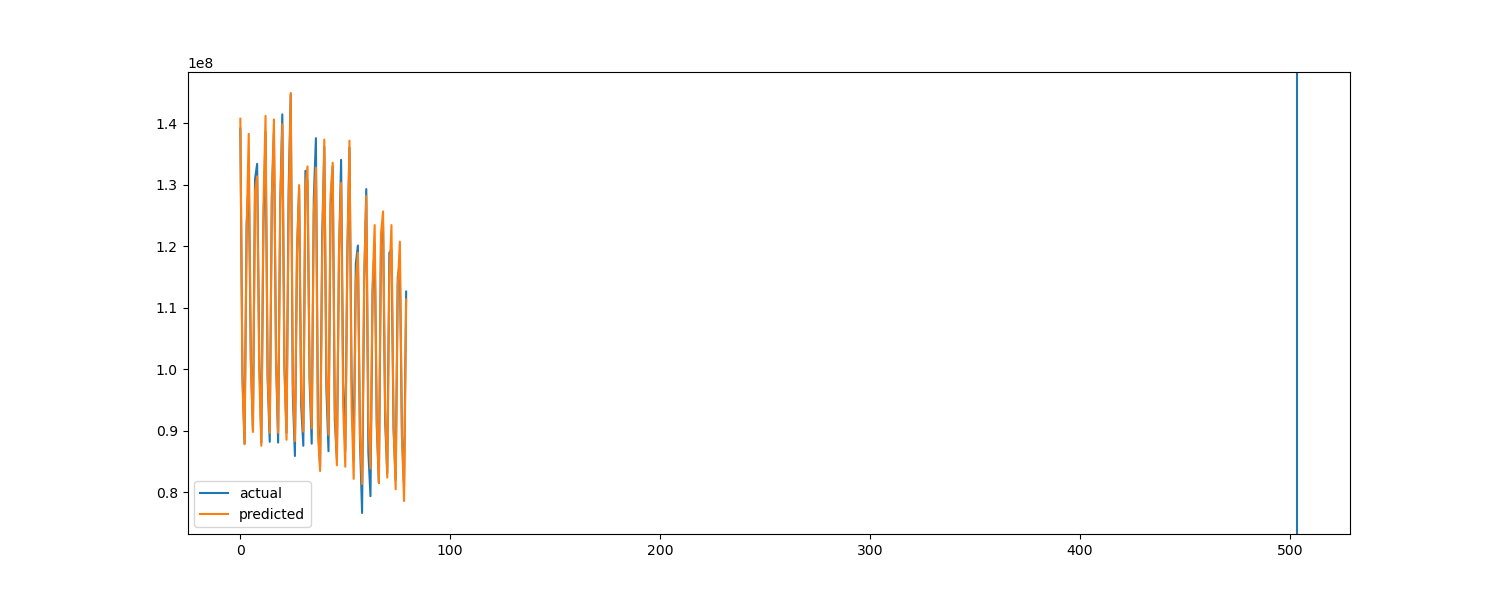
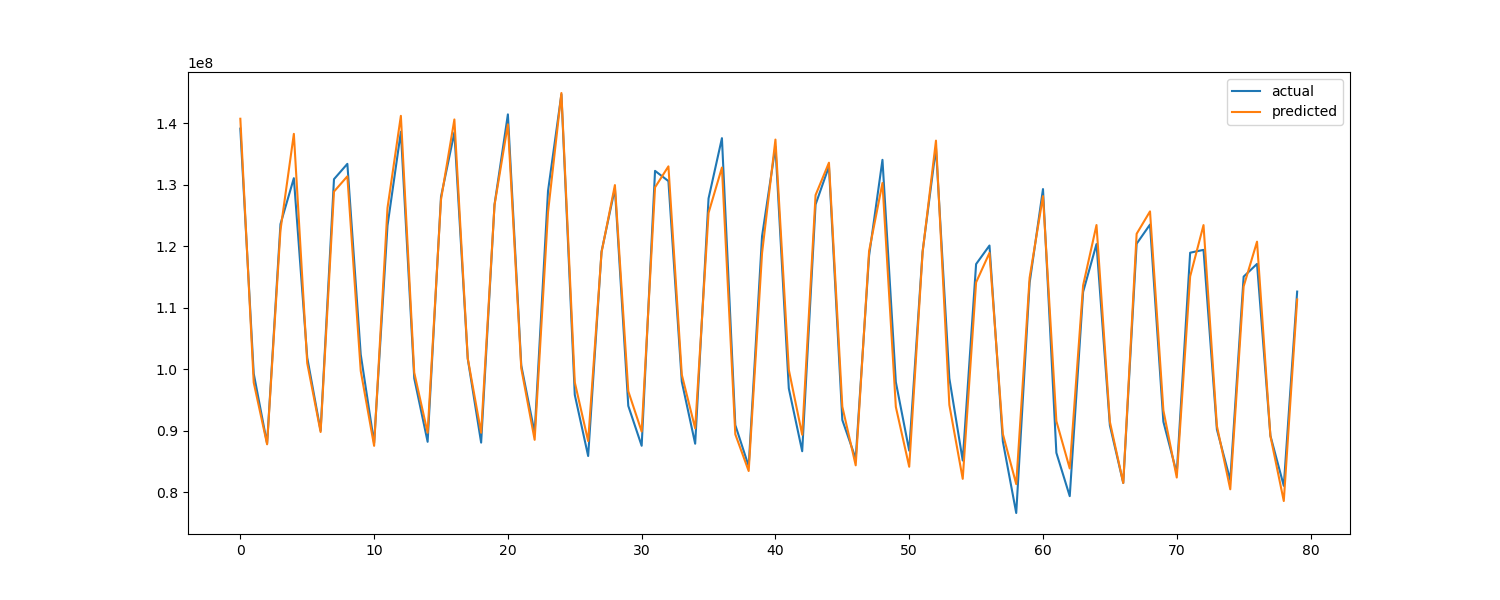
sc

diff --git a/estimators.py b/estimators.py
@@ -11,6 +11,8 @@ from sklearn.model_selection import train_test_split
 from sklearn.model_selection import TimeSeriesSplit
 from sklearn.linear_model import LassoCV
 
+import SparseSC
+
 # custom functions
 from plot_functions import print_lasso_path
 
@@ -83,8 +85,15 @@ def arco(target: list, donors: list, alpha_min: float, alpha_max: float, alpha_s
     return model, act, pred
 
 
-def sc():
+def sc(target: list, donors: list):
     pass
+    # y = target
+    # X = np.array(donors)
+    # sc_model = SparseSC.fit(
+    #     features=np.array(donors),
+    #     target=np.array(target),
+    #     treated_units=
+    # )
 
 
 def did():

diff --git a/statistical_tests.py b/statistical_tests.py
@@ -49,10 +49,10 @@ def adf_test(sign_level: str):
                            columns=['country', 'series', 'diff_level', 'stationary', 'p_value'])
     df_stat.to_csv(f'{output_path}stationarity_results.csv')
 
-    # df_stat_group = df_stat[df_stat['stationary']==1]
-    # print(df_stat_group.groupby(by=['series', 'stationary']).sum())
-    #
-    return df_stat[df_stat['stationary']==1]
+    df_stat_group = df_stat[df_stat['stationary']==1]
+    print(df_stat_group.groupby(by=['series', 'stationary']).sum())
+
+    return df_stat[df_stat['stationary'] == 1]
 
 
 if __name__ == "__main__":

diff --git a/plot_functions.py b/plot_functions.py
@@ -34,7 +34,7 @@ def plot_predictions(act: list, pred: list):
     plt.figure(figsize=(15, 6))
     plt.plot(act, label='actual')
     plt.plot(pred, label='predicted')
-    plt.axvline(x=target_impl_year/timeframe_scale)
+    # plt.axvline(x=target_impl_year/timeframe_scale)
     plt.legend()
     if save_figs:
         plt.savefig(f'{figures_path}act_vs_pred.png')

diff --git a/main.py b/main.py
@@ -23,6 +23,7 @@ for path in [data_path, figures_path, output_path]:
 ### main script              ###
 ################################
 def main():
+
     # read data
     df = pd.read_csv(os.path.join(data_path, data_file), delimiter=',', header=0, encoding='latin-1')
     # See which countries are included

diff --git a/preprocess.py b/preprocess.py
@@ -71,6 +71,7 @@ def preprocesss_pop_quarterly(source_file: str, country_col: str, measure_col: s
 
     return pop_monthly, pop_quarterly
 
+
 # Quarterly GDP data
 def preprocesss_gdp_quarterly(source_file: str, country_col: str, measure_col: str, incl_measure: list):
     # read data
